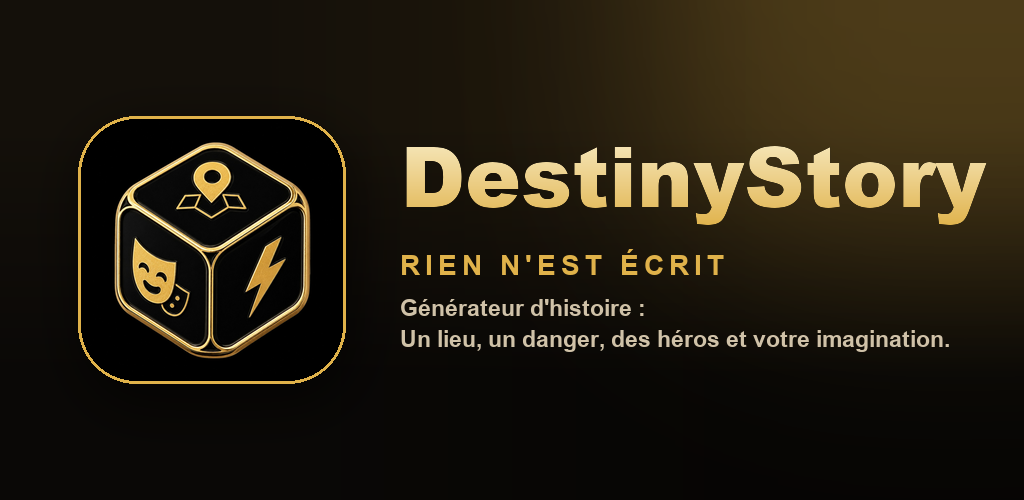
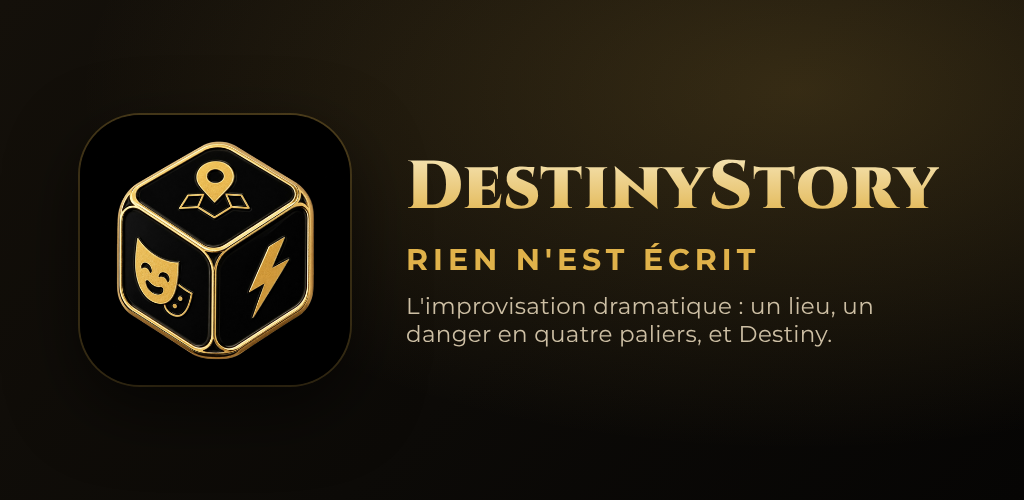
Bannière du Play Store à jour pour la 2.0
Le « Générateur d'histoire » laisse la place à la promesse de la 2.0, avec
les polices de l'appli (Cinzel et Montserrat).

Claude-Session: https://claude.ai/code/session_01TtFDfCh5wNUAw5BxSbfKUA

diff --git a/docs/store_assets/banner.html b/docs/store_assets/banner.html
@@ -1,4 +1,7 @@
 <!doctype html><html><head><meta charset="utf-8"><style>
+  @font-face { font-family:'Cinzel'; font-weight:900; src:url('../../assets/fonts/Cinzel-Black.ttf'); }
+  @font-face { font-family:'Montserrat'; font-weight:400; src:url('../../assets/fonts/Montserrat-Regular.ttf'); }
+  @font-face { font-family:'Montserrat'; font-weight:700; src:url('../../assets/fonts/Montserrat-Bold.ttf'); }
   * { margin:0; padding:0; box-sizing:border-box; }
   html,body { width:1024px; height:500px; overflow:hidden; }
   .banner {
@@ -7,7 +10,7 @@
     background:
       radial-gradient(1200px 600px at 78% 18%, rgba(224,178,74,.20), transparent 60%),
       linear-gradient(135deg, #14100a 0%, #0c0a07 55%, #060504 100%);
-    font-family:-apple-system,BlinkMacSystemFont,"Segoe UI",Roboto,sans-serif;
+    font-family:"Montserrat",sans-serif;
   }
   .logo {
     width:270px; height:270px; border-radius:60px; flex:0 0 auto;
@@ -17,7 +20,7 @@
   }
   .txt { display:flex; flex-direction:column; }
   .name {
-    font-size:86px; font-weight:800; letter-spacing:-1.5px; line-height:1;
+    font-family:'Cinzel',serif; font-size:68px; font-weight:900; letter-spacing:1px; line-height:1.05;
     background:linear-gradient(180deg,#f6e6b8,#e0b24a); -webkit-background-clip:text;
     -webkit-text-fill-color:transparent; background-clip:text;
   }
@@ -32,7 +35,7 @@
     <div class="txt">
       <div class="name">DestinyStory</div>
       <div class="tag">Rien n'est écrit</div>
-      <div class="sub">Générateur de scènes d'improvisation théâtrale : un lieu, un danger, des héros.</div>
+      <div class="sub">L'improvisation dramatique : un lieu, un danger en quatre paliers, et Destiny.</div>
     </div>
   </div>
 </body></html>

diff --git a/docs/play_store_listing.md b/docs/play_store_listing.md
@@ -95,7 +95,7 @@ Rien n'est écrit. Tout reste à jouer.
 | Asset | Format requis | Statut |
 |---|---|---|
 | **Icône** | PNG 512 × 512 (32 bits, avec alpha) | ✅ tu as déjà `assets/icon/app_icon_full.png` (à exporter en 512²) |
-| **Bannière (Feature graphic)** | JPG/PNG **1024 × 500** | ⬜ à créer |
+| **Bannière (Feature graphic)** | JPG/PNG **1024 × 500** | ✅ `docs/store_assets/feature_graphic_1024x500.png`, refaite pour la 2.0 (polices de l'appli), depuis `banner.html` |
 | **Captures téléphone** | 2 à 8, min 320 px, ratio 16:9 ou 9:16 | ✅ 8 captures 1080 × 1920 (9:16) de la 2.0 dans `docs/store_assets/play_store_2_0/` : Découvrir Destiny (3), Troupe, Archétypes, Livret, Exercices, fiche d'exercice. Faites depuis la version web : à vérifier sur un téléphone |
 | Captures tablette (optionnel) | 7" et 10" | ⬜ facultatif |
 
